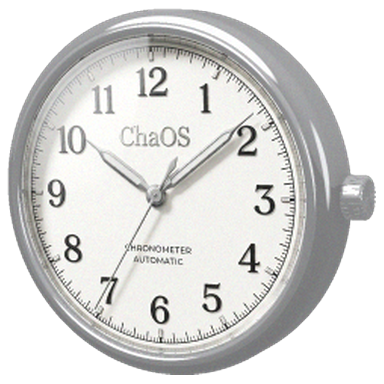
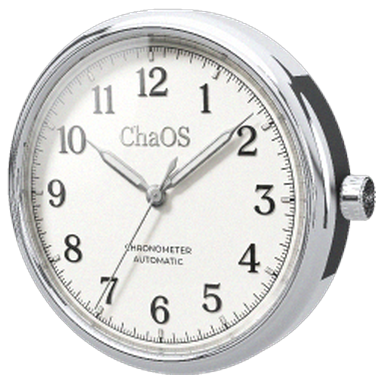
Recently Played's watch: polished stainless steel
Nearly a mirror, in a studio of its own (a white sweep, the softbox, black
flags and a dark horizon), which the case gives back as polished steel's
crisp bright and dark bands rather than grey.

Claude-Session: https://claude.ai/code/session_01TGGsTE1DNkb6MQqq6tNzFj

Changed region(s): [[0.0, 0.0, 1.0, 1.0]]

diff --git a/tools/genrecentwatch.py b/tools/genrecentwatch.py
@@ -46,13 +46,35 @@ def frame(p):
     return rm.local(p, (0, 0, 0), M)
 
 
-# The picture's polished silver: a bright metal, glossy enough to carry the
-# studio's softbox and dark floor as the picture's case carries its bands, and
-# lifted a little (emit) so its side reads silver, not the floor's grey
-STEEL = (236, 237, 239)
-MATS = [rm.Mat(STEEL, gloss=0.8, metal=True, emit=0.18),                     # 0 case
+# Polished stainless steel: nearly a mirror, so what it shows is what it
+# reflects. The set's studio (dim ceiling, dark floor) makes such a mirror
+# grey, so this card has its own, as watches are photographed: a bright
+# white sweep overhead and behind, the key softbox, and black flags standing
+# beside the watch and a dark line on the horizon, which polished steel
+# gives back as the crisp dark bands that tell it from grey paint.
+STEEL = (238, 240, 243)
+
+
+def watch_studio(d):
+    x, y, z = d[..., 0], d[..., 1], d[..., 2]
+    env = np.where(y > 0, 0.95 + 0.6 * y, 0.55 + 0.35 * (1 + y))
+    # the horizon, a dark line all the way round
+    env = env * (1 - 0.85 * np.exp(-((y + 0.02) / 0.07) ** 2))
+    # black flags: tall, either side, a little behind
+    env = np.where((np.abs(x - 0.62) < 0.13) & (y > -0.35) & (y < 0.75), env * 0.06, env)
+    env = np.where((np.abs(x + 0.78) < 0.10) & (y > -0.25) & (y < 0.6), env * 0.08, env)
+    # the key softbox and a strip light, very bright
+    sb = np.clip((np.sum(d * rm.KEY, -1) - 0.86) / 0.05, 0, 1) * 4.0
+    strip = np.clip((np.sum(d * rm.FILL, -1) - 0.93) / 0.03, 0, 1) * 2.2
+    return (env + sb + strip)[..., None] * np.array([0.99, 1.0, 1.03])
+
+
+rm.studio = watch_studio
+
+
+MATS = [rm.Mat(STEEL, gloss=0.96, metal=True),                               # 0 case
         rm.Mat(lambda p: FACE(frame(p)), gloss=0.55, spec=0.3, emit=0.95),  # 1 face, under glass
-        rm.Mat((240, 241, 243), gloss=0.9, metal=True, emit=0.25)]           # 2 polished rim and crown
+        rm.Mat((242, 243, 245), gloss=0.98, metal=True)]                     # 2 polished rim and crown
 
 
 def scene(p):
